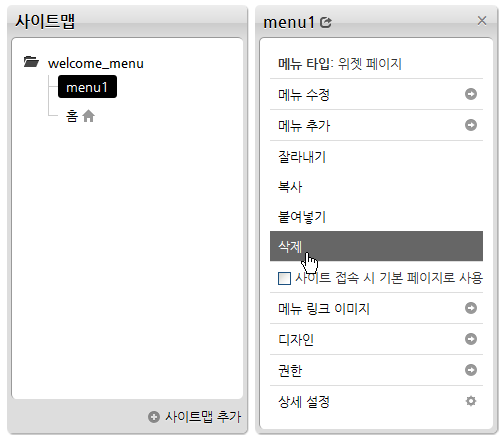
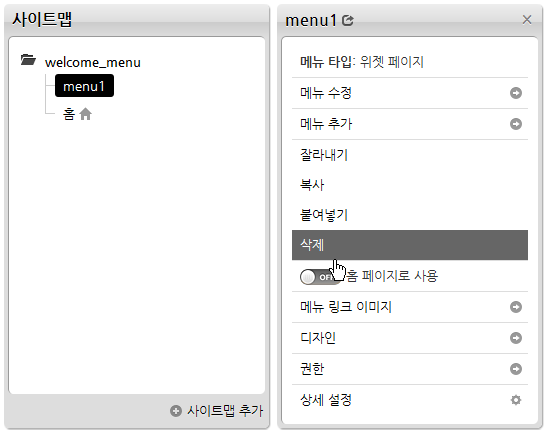
issue 2745 manual work
git-svn-id: http://xe-core.googlecode.com/svn/branches/maserati@12422 201d5d3c-b55e-5fd7-737f-ddc643e51545

Changed region(s): [[0.0, 0.0299, 1.0, 1.0]]

diff --git a/help/index.html b/help/index.html
@@ -165,6 +165,8 @@ body,table,input,textarea,select,button{font-family:나눔고딕,NanumGothic,NG,
 						<dd>레이아웃이나 페이지 모듈에 삽입되어 동작하는 구성 요소.</dd>
 						<dt id="UMAN_terminology_zeroboard">제로보드</dt>
 						<dd>1999년 개발된 게시판 소프트웨어. 제로보드 XE를 거쳐 현재의 XE로 발전되었습니다.</dd>
+						<dt id="UMAN_terminology_sitemap">사이트맵</dt>
+						<dd>각 메뉴를 그룹핑하여 모아놓은 것으로 사이트맵을 사이트의 상단, 좌측, 우측, 하단 등에 배치하여 사용할 수 있습니다.</dd>
 					</dl>
 				</section>
 			</section>
@@ -536,9 +538,9 @@ body,table,input,textarea,select,button{font-family:나눔고딕,NanumGothic,NG,
 						<p>사이트에 접속 시 처음 보여질 메뉴로 지정합니다.</p>
 						<ol>
 							<li>'사이트맵'에서 '홈' 메뉴를 클릭하면 나오는 메뉴 가운데 '사이트 접속 시 기본 페이지로 사용'을 클릭합니다.</li>
-							<figure> <img src="img/make_general_site/change_start_page.PNG" width="506" height="442" alt="시작 페이지 변경"> </figure>
+							<figure> <img src="img/make_general_site/change_start_page.PNG" width="551" height="436" alt="시작 페이지 변경"> </figure>
 							<li>기존에 기본페이지로 사용되었던 'menu1' 메뉴를 삭제 합니다.</li>
-							<figure> <img src="img/make_general_site/delete_menu1.PNG" width="504" height="442" alt="'menu1' 메뉴 삭제"> </figure>
+							<figure> <img src="img/make_general_site/delete_menu1.PNG" width="548" height="435" alt="'menu1' 메뉴 삭제"> </figure>
 							<li>메뉴를 삭제할 때 나오는 checkbox에 check한 후 '확인' 버튼을 눌러 삭제합니다.</li>
 							<figure> <img src="img/make_general_site/menu_delete_confirm.PNG" width="615" height="172" alt="메뉴 삭제 확인"> </figure>
 						</ol>
@@ -715,7 +717,7 @@ body,table,input,textarea,select,button{font-family:나눔고딕,NanumGothic,NG,
 					<ol>
 						<li>'사이트 제작/편집' &gt; '사이트 메뉴 편집'으로 이동합니다.</li>
 						<li> 원하는 메뉴를 클릭하면 나오는 서브메뉴에서 '사이트 접속 시 기본 페이지로 사용'을 클릭합니다.
-							<figure> <img src="img/make_general_site/change_start_page.PNG" width="506" height="442" alt="시작 페이지 변경"> </figure>
+							<figure> <img src="img/make_general_site/change_start_page.PNG" width="551" height="436" alt="시작 페이지 변경"> </figure>
 						</li>
 						<li>XE 최초 설치시 기본페이지로 지정되어 있던 'menu1'이 '홈'으로 변경된 것을 확인할 수 있습니다.</li>
 					</ol>

diff --git a/modules/menu/tpl/sitemap.html b/modules/menu/tpl/sitemap.html
@@ -26,7 +26,7 @@
 
 <!--@if($act == 'dispMenuAdminSiteMap')-->
 	<div class="col map" id="site_map">
-		<h1>{$lang->sitemap}</h1>
+		<h1>{$lang->menu_gnb_sub['siteMap']} <a class="x_icon-question-sign" href="./help/index.html#UMAN_site_menu" target="_blank">도움말</a></h1>
 		<div class="cnt">
 			<section class="mapi" id="siteMapTree">
 				<script id="tmpl_menuTree" type="text/x-jquery-tmpl">
@@ -352,7 +352,7 @@
 	<!--@end-->
 		<fieldset>
 			<h1 class="_item">{$lang->design}</h1>
-			<h1 class="_site">{$lang->site_design}</h1>
+			<h1 class="_site">{$lang->menu_gnb_sub['siteDesign']} <a class="x_icon-question-sign" href="./help/index.html#UMAN_site_design" target="_blank">도움말</a></h1>
 			<div class="cnt">
 				<form action="./" target="xe_preview" class="_preview_form" method="post">
 					<input type="hidden" name="skin_vars" value="{}"/>
